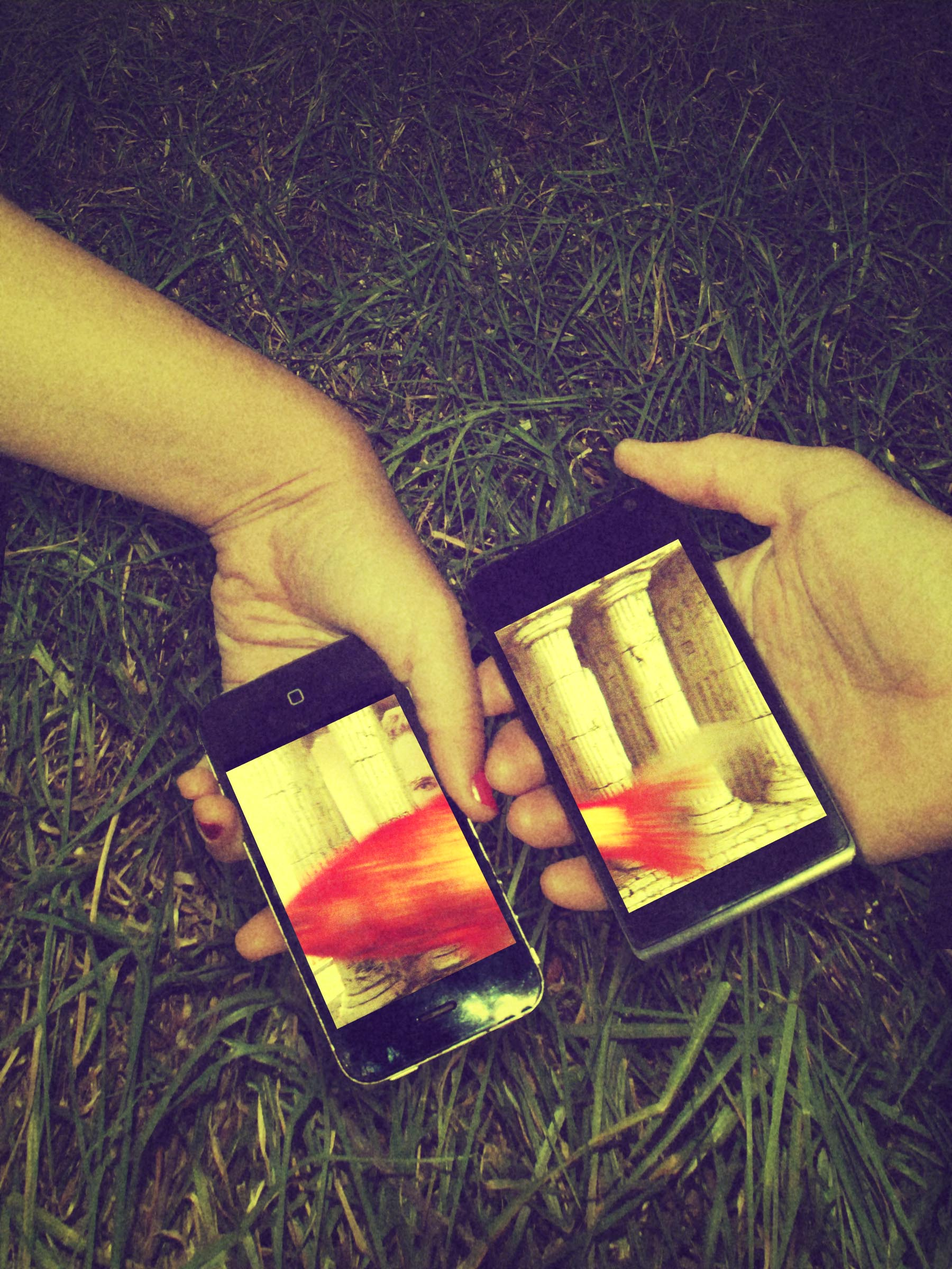
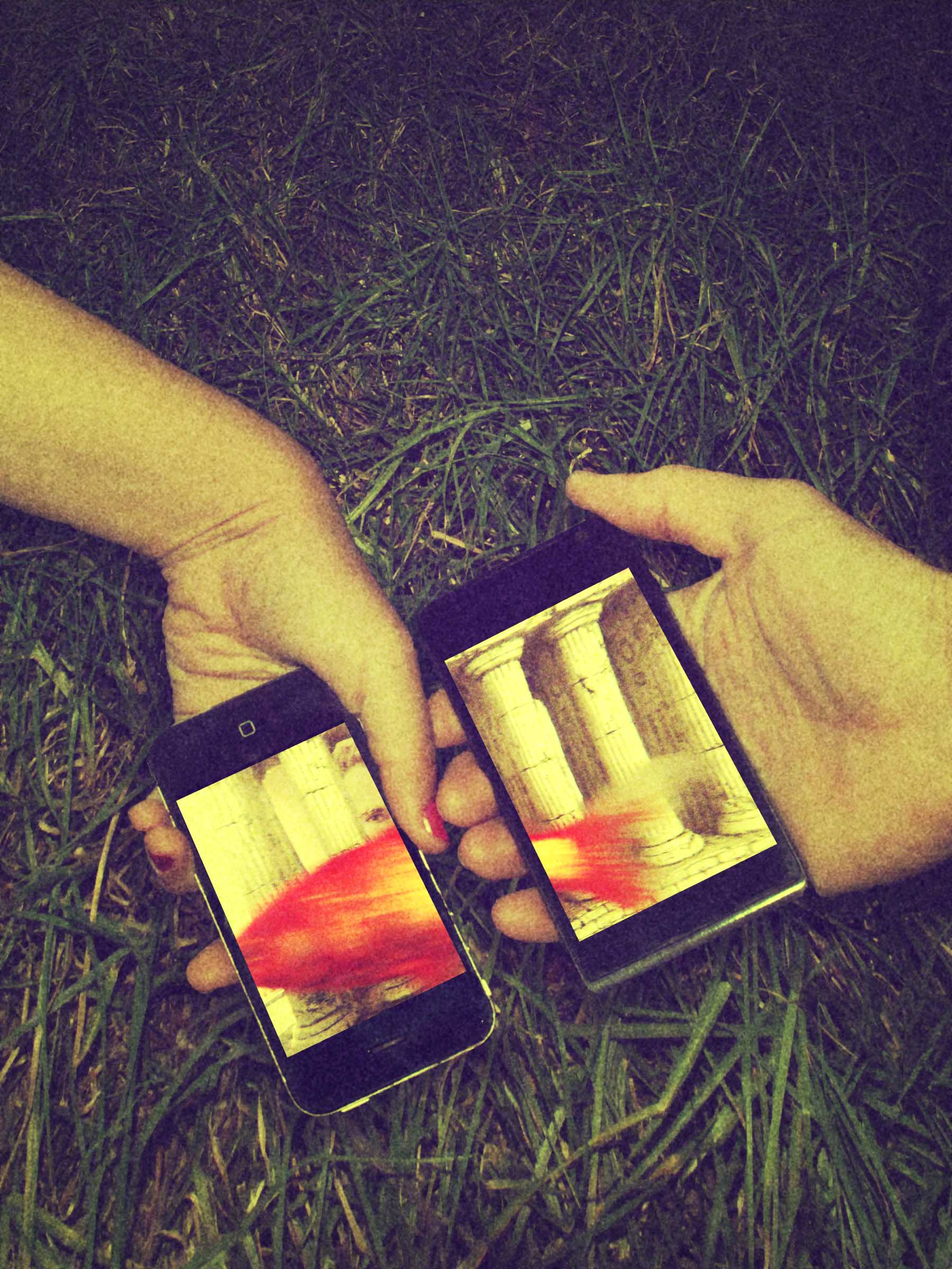
Removed compass reset and replaced image

diff --git a/src/stylesheets/screen.css b/src/stylesheets/screen.css
@@ -2,72 +2,7 @@
  * In this file you should write your main styles. (or centralize your imports)
  * Import this file using the following HTML or equivalent:
  * <link href="/stylesheets/screen.css" media="screen, projection" rel="stylesheet" type="text/css" /> */
-/* line 17, ../../../../../../Library/Ruby/Gems/1.8/gems/compass-0.12.2/frameworks/compass/stylesheets/compass/reset/_utilities.scss */
-html, body, div, span, applet, object, iframe,
-h1, h2, h3, h4, h5, h6, p, blockquote, pre,
-a, abbr, acronym, address, big, cite, code,
-del, dfn, em, img, ins, kbd, q, s, samp,
-small, strike, strong, sub, sup, tt, var,
-b, u, i, center,
-dl, dt, dd, ol, ul, li,
-fieldset, form, label, legend,
-table, caption, tbody, tfoot, thead, tr, th, td,
-article, aside, canvas, details, embed,
-figure, figcaption, footer, header, hgroup,
-menu, nav, output, ruby, section, summary,
-time, mark, audio, video {
-  margin: 0;
-  padding: 0;
-  border: 0;
-  font: inherit;
-  font-size: 100%;
-  vertical-align: baseline;
-}
-
-/* line 22, ../../../../../../Library/Ruby/Gems/1.8/gems/compass-0.12.2/frameworks/compass/stylesheets/compass/reset/_utilities.scss */
-html {
-  line-height: 1;
-}
-
-/* line 24, ../../../../../../Library/Ruby/Gems/1.8/gems/compass-0.12.2/frameworks/compass/stylesheets/compass/reset/_utilities.scss */
-ol, ul {
-  list-style: none;
-}
-
-/* line 26, ../../../../../../Library/Ruby/Gems/1.8/gems/compass-0.12.2/frameworks/compass/stylesheets/compass/reset/_utilities.scss */
-table {
-  border-collapse: collapse;
-  border-spacing: 0;
-}
-
-/* line 28, ../../../../../../Library/Ruby/Gems/1.8/gems/compass-0.12.2/frameworks/compass/stylesheets/compass/reset/_utilities.scss */
-caption, th, td {
-  text-align: left;
-  font-weight: normal;
-  vertical-align: middle;
-}
-
-/* line 30, ../../../../../../Library/Ruby/Gems/1.8/gems/compass-0.12.2/frameworks/compass/stylesheets/compass/reset/_utilities.scss */
-q, blockquote {
-  quotes: none;
-}
-/* line 103, ../../../../../../Library/Ruby/Gems/1.8/gems/compass-0.12.2/frameworks/compass/stylesheets/compass/reset/_utilities.scss */
-q:before, q:after, blockquote:before, blockquote:after {
-  content: "";
-  content: none;
-}
-
-/* line 32, ../../../../../../Library/Ruby/Gems/1.8/gems/compass-0.12.2/frameworks/compass/stylesheets/compass/reset/_utilities.scss */
-a img {
-  border: none;
-}
-
-/* line 116, ../../../../../../Library/Ruby/Gems/1.8/gems/compass-0.12.2/frameworks/compass/stylesheets/compass/reset/_utilities.scss */
-article, aside, details, figcaption, figure, footer, header, hgroup, menu, nav, section, summary {
-  display: block;
-}
-
-/* line 11, ../sass/screen.scss */
+/* line 10, ../sass/screen.scss */
 body {
   /*    border: 0.5em solid #a5ddc2; */
   /* background: white url('../img/background/squairy_light.png') repeat; */
@@ -77,18 +12,18 @@ body {
   margin: 0;
 }
 
-/* line 20, ../sass/screen.scss */
+/* line 19, ../sass/screen.scss */
 a {
   text-decoration: none;
   color: #26b163;
 }
 
-/* line 25, ../sass/screen.scss */
+/* line 24, ../sass/screen.scss */
 a:hover {
   text-decoration: underline;
 }
 
-/* line 29, ../sass/screen.scss */
+/* line 28, ../sass/screen.scss */
 header {
   font-weight: bold;
   color: #333;
@@ -97,24 +32,24 @@ header {
   background: transparent url("../img/background/squairy_light.png");
 }
 
-/* line 37, ../sass/screen.scss */
+/* line 36, ../sass/screen.scss */
 section {
   padding: 1em 0em;
 }
 
-/* line 41, ../sass/screen.scss */
+/* line 40, ../sass/screen.scss */
 section p {
   padding: 0.5em 0em;
 }
 
-/* line 45, ../sass/screen.scss */
+/* line 44, ../sass/screen.scss */
 .tara-title {
   font-style: italic;
   font-weight: 600;
   font-size: 1.7em;
 }
 
-/* line 51, ../sass/screen.scss */
+/* line 50, ../sass/screen.scss */
 .sidebar {
   width: 40%;
   height: 100%;
@@ -127,7 +62,7 @@ section p {
   background-size: cover;
 }
 
-/* line 60, ../sass/screen.scss */
+/* line 59, ../sass/screen.scss */
 .main-panel {
   width: 46%;
   float: right;
@@ -137,7 +72,7 @@ section p {
   line-height: 1.5em;
 }
 
-/* line 69, ../sass/screen.scss */
+/* line 68, ../sass/screen.scss */
 .logo {
   margin-top: 22px;
   color: #647B8A;
@@ -149,7 +84,7 @@ section p {
   background-size: 85%;
 }
 
-/* line 80, ../sass/screen.scss */
+/* line 79, ../sass/screen.scss */
 .nav-links {
   text-align: center;
   margin: auto;
@@ -157,31 +92,31 @@ section p {
   font-size: 14px;
 }
 
-/* line 87, ../sass/screen.scss */
+/* line 86, ../sass/screen.scss */
 .nav-links > li {
   display: inline;
   margin-left: 10px;
 }
 
-/* line 92, ../sass/screen.scss */
+/* line 91, ../sass/screen.scss */
 .clear {
   clear: both;
 }
 
-/* line 96, ../sass/screen.scss */
+/* line 95, ../sass/screen.scss */
 .main-content {
   padding: 1% 3%;
   font-weight: 100;
 }
 
-/* line 101, ../sass/screen.scss */
+/* line 100, ../sass/screen.scss */
 #mc_embed_signup form {
   background: transparent url("../img/background/squairy_light.png");
   color: #424242;
 }
 
 /* ------------------------ For screen sizes < 768 ------------------------ */
-/* line 108, ../sass/screen.scss */
+/* line 107, ../sass/screen.scss */
 .top-panel {
   width: 100%;
   height: 100%;
@@ -190,7 +125,7 @@ section p {
   background-size: cover;
 }
 
-/* line 116, ../sass/screen.scss */
+/* line 115, ../sass/screen.scss */
 .main-panel-below {
   padding: 2% 7%;
   letter-spacing: 0.07em;
@@ -198,7 +133,7 @@ section p {
   line-height: 1.5em;
 }
 
-/* line 123, ../sass/screen.scss */
+/* line 122, ../sass/screen.scss */
 .main-panel-below section {
   padding: 0.7em 0em;
 }

diff --git a/src/sass/screen.scss b/src/sass/screen.scss
@@ -3,7 +3,6 @@
  * Import this file using the following HTML or equivalent:
  * <link href="/stylesheets/screen.css" media="screen, projection" rel="stylesheet" type="text/css" /> */
 
-@import "compass/reset";
 @import "compass/css3";
 
 $green: #26B163;
